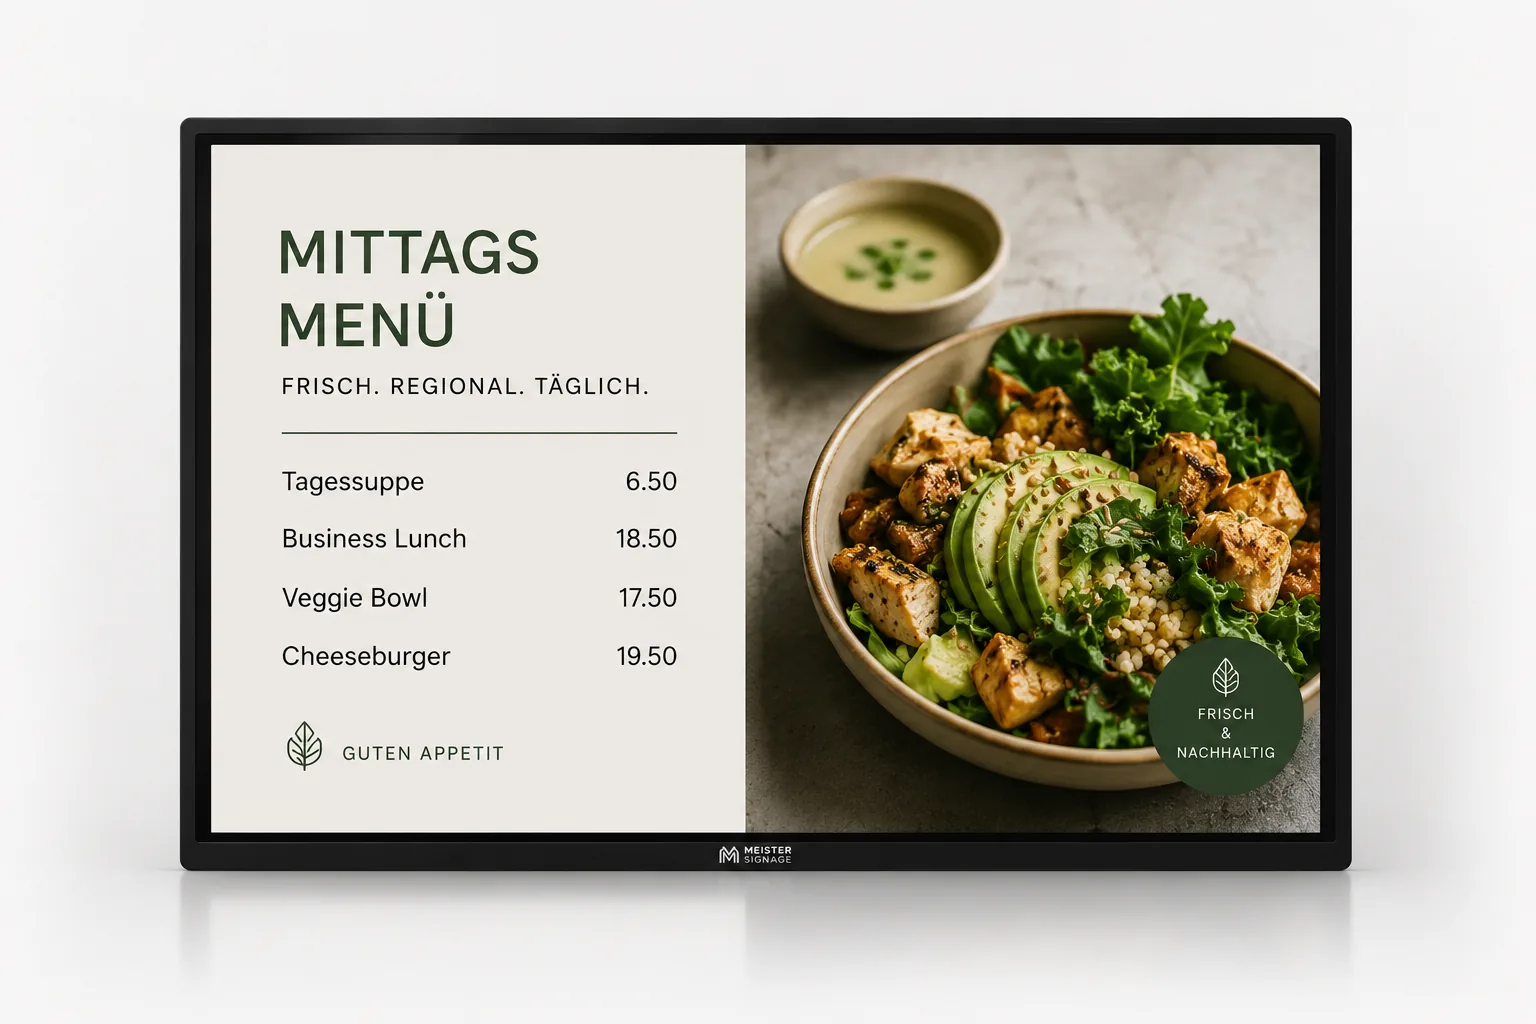
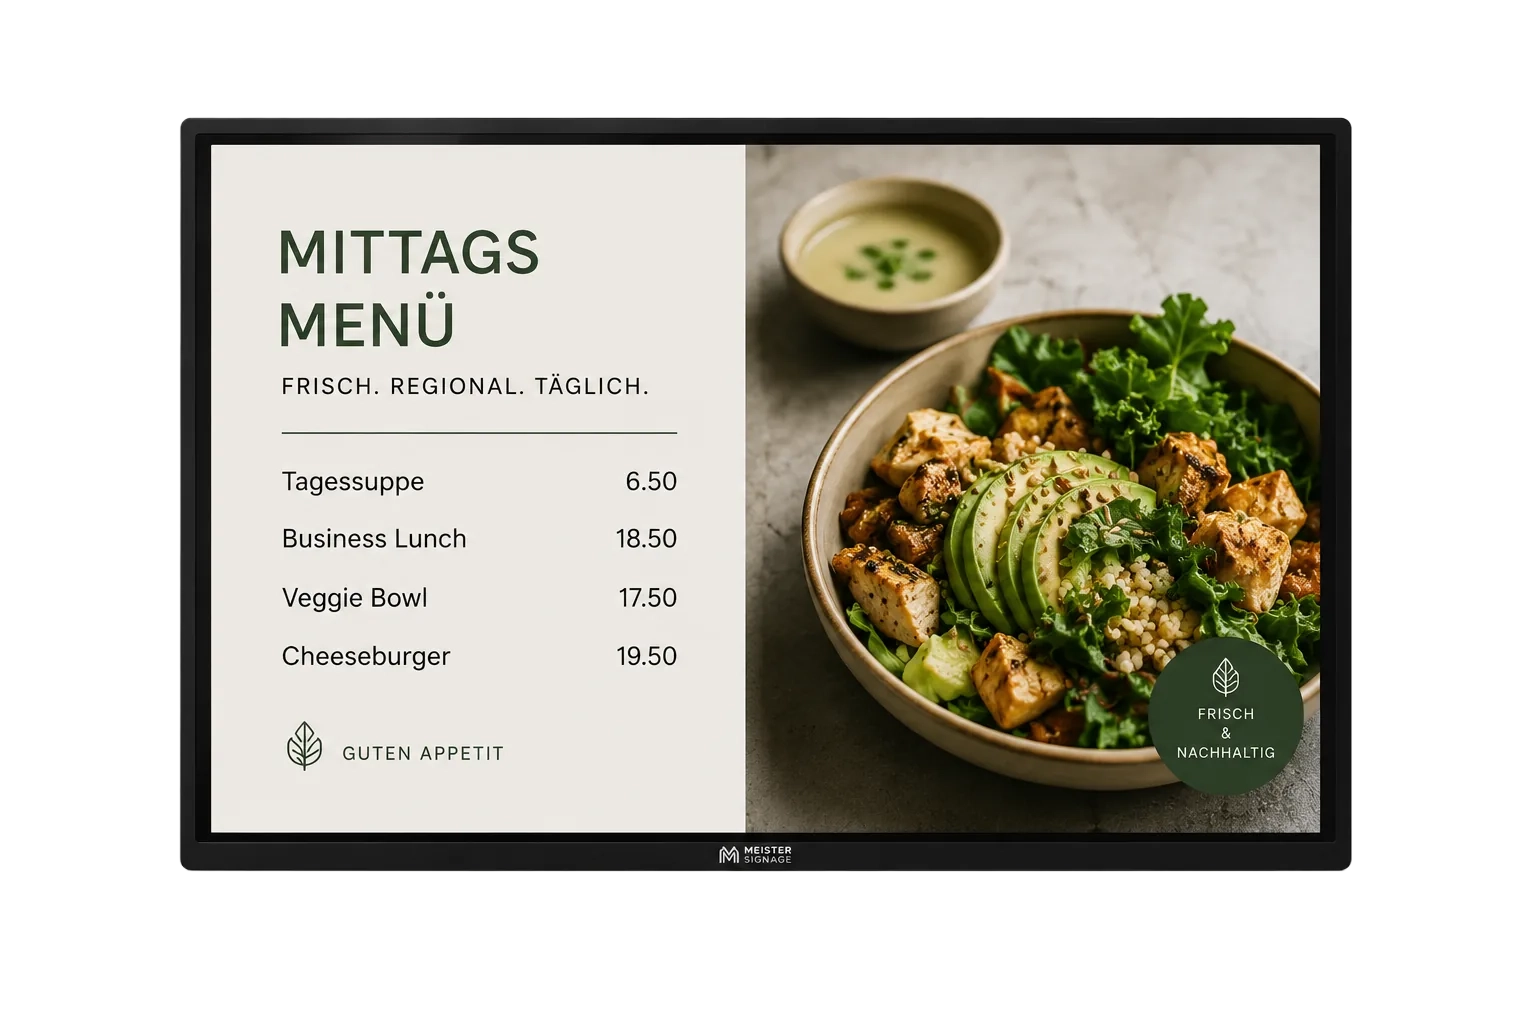
Nav: shrink desktop CTA to match Blog button size
The desktop 'Beratung anfragen' was using the global .btn-primary
which is 56px tall — towering over the 41px Blog outline next to it.

In the Nav specifically, replaced btn-primary with the same px-4 py-2
text-[14px] sizing as Blog, kept the magenta fill + drop shadow.
Added a transparent-color matching 1px border so the total height
(border-box) matches the bordered Blog button exactly.

Both buttons now measure 41.09 x N px in the header. .btn-primary
unchanged elsewhere — still 56px on hero CTAs and section CTAs.

Changed region(s): [[0.0312, 0.375, 0.9688, 0.9688]]

diff --git a/components/Nav.tsx b/components/Nav.tsx
@@ -125,7 +125,10 @@ export default function Nav() {
           >
             Blog
           </Link>
-          <Link href="/kontakt" className="btn-primary">
+          <Link
+            href="/kontakt"
+            className="inline-flex items-center rounded-[7px] border border-magenta bg-magenta px-4 py-2 text-[14px] font-semibold tracking-wide text-white shadow-[0_4px_14px_rgba(254,1,154,0.25)] transition-all duration-150 hover:border-[#d9007c] hover:bg-[#d9007c] hover:shadow-[0_6px_18px_rgba(254,1,154,0.35)]"
+          >
             Beratung anfragen
           </Link>
         </div>